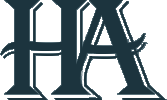
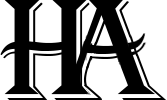
changed colors in creditSocials

diff --git a/src/stylesheets/CreditSocials.css b/src/stylesheets/CreditSocials.css
@@ -8,13 +8,13 @@
   }
   
   a {
-    color:#264653;
+    color:#252422;
     font-weight: bold;
     text-decoration: none;
     border: 1px solid transparent;
   }
   a:visited {
-    color: #264653;
+    color: #252422;
     text-decoration: none;
   }
   a:hover ,
